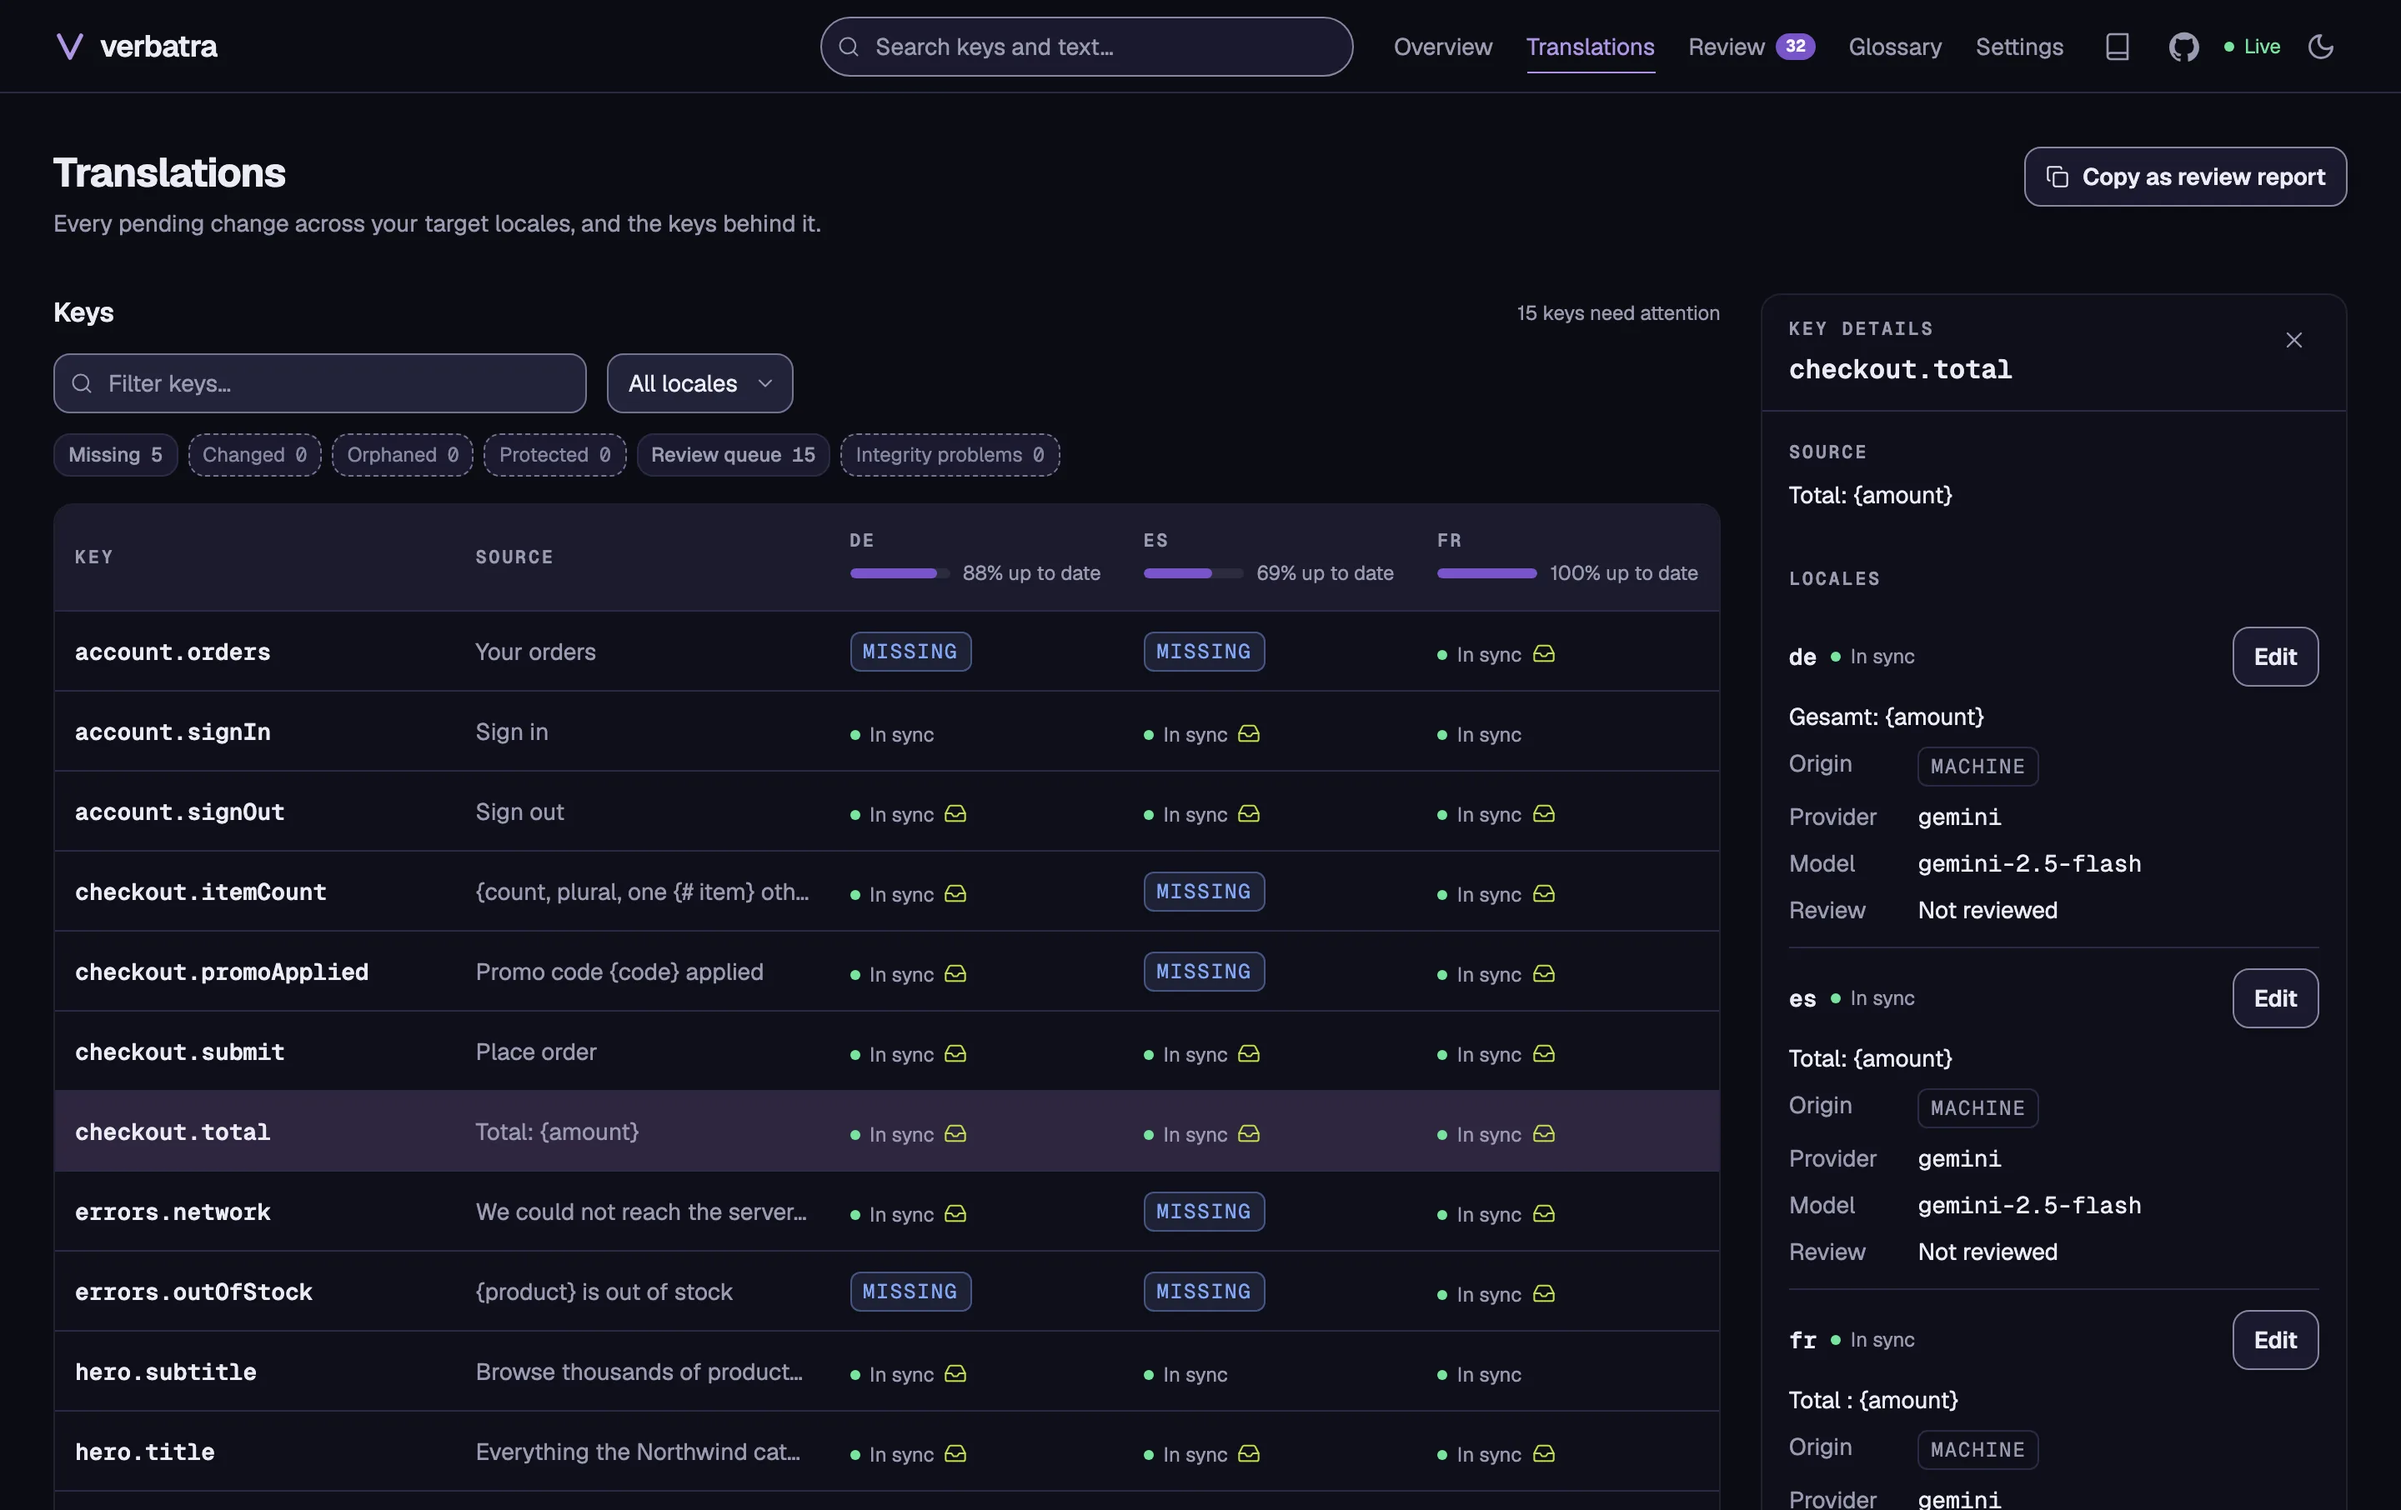
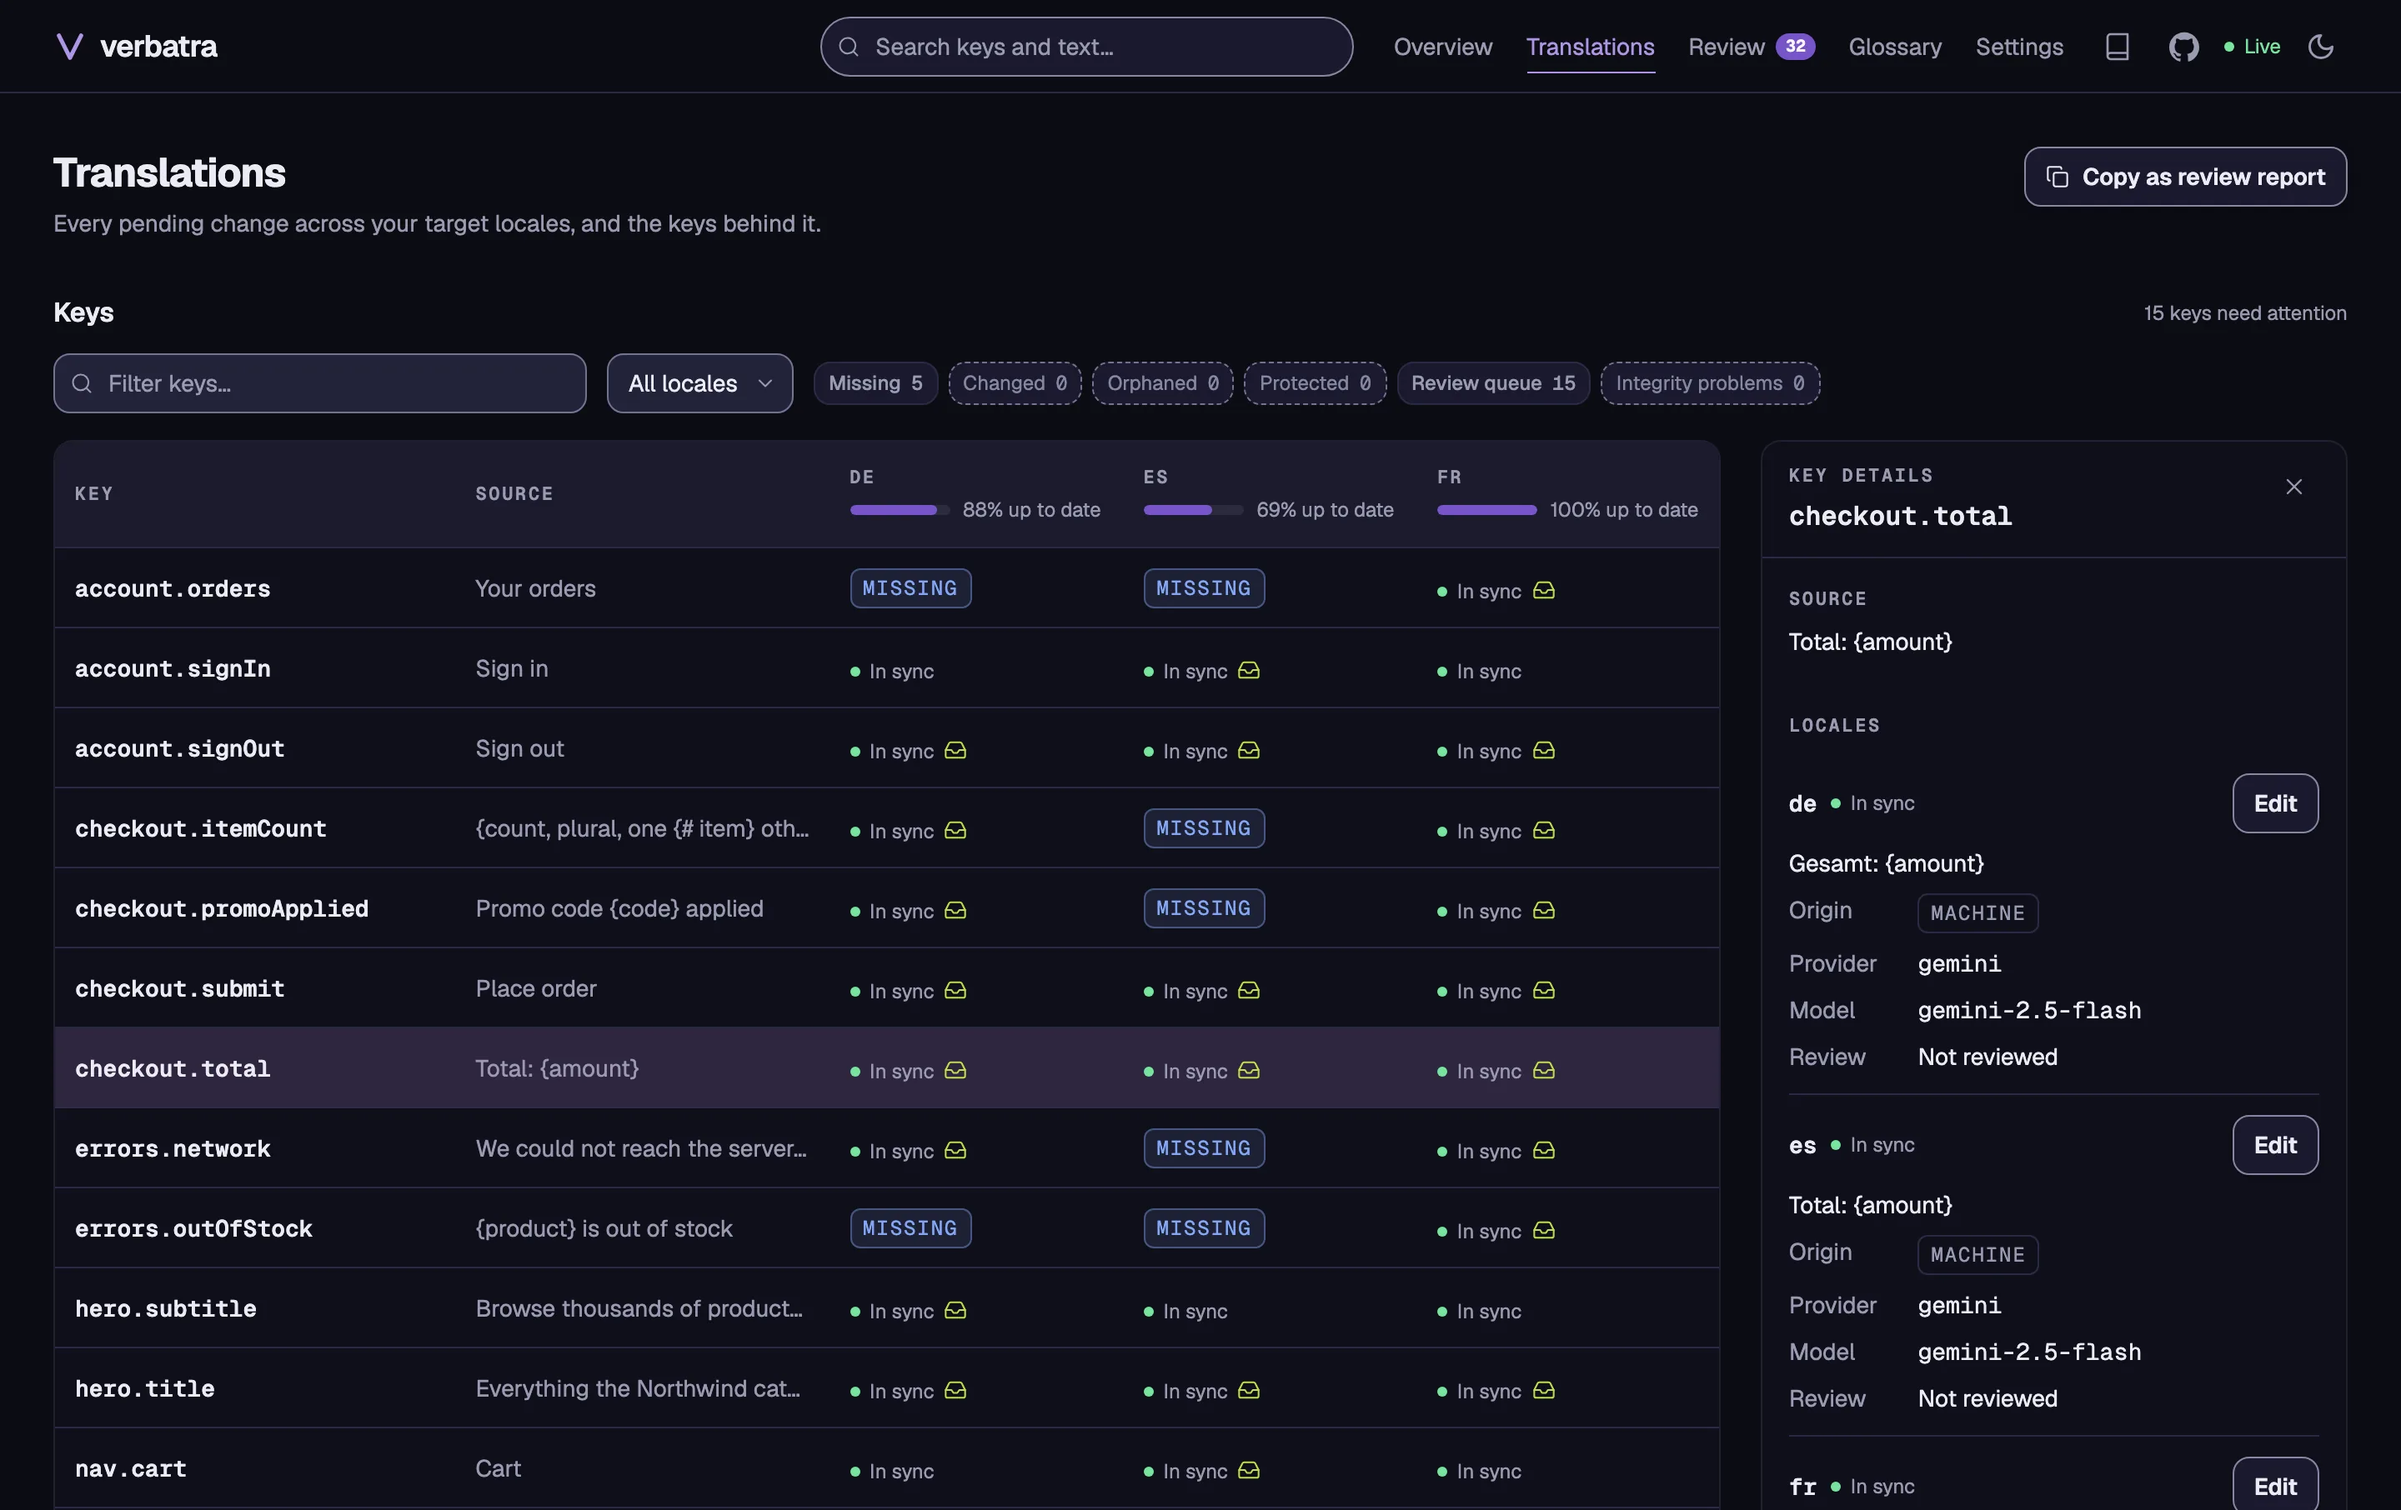
docs(studio): describe the split grid and read-only saves and refresh the screenshot

diff --git a/.claude/skills/studio-ui/SKILL.md b/.claude/skills/studio-ui/SKILL.md
@@ -290,7 +290,11 @@ below `xl` it is the `DrawerShell` (side end). While the pane is open the page u
 (the app root switches `--page-max` from `--container-6xl` to `--width-layout` through
 `has-[[data-split]]`, and both the header's inner box and the page box, marked `data-page-width`,
 read it, so their edges line up; `Container` in ui stays generic), so the matrix keeps three locale
-columns at 1440. Editor state (the open locale, its draft, the unsaved prompt) lives in
+columns at 1440. The filter bar stays above the split grid at full page width, so opening a key
+never moves the table; only the table and the pane share the grid. While the split is open the
+refresh toast moves to the start edge (`group/page` with `group-has-[[data-split]]/page`), so it
+never covers the pane's Save row. While a save runs the field is `readOnly` with `aria-busy`, never
+`disabled`, so focus stays in it, and a rejected save puts focus back in the field. Editor state (the open locale, its draft, the unsaved prompt) lives in
 `KeyEditor`, above the container, so crossing `xl` keeps a draft, and focus and the selection in the
 field are restored after the swap. The translation form is inline in the locale block, built from
 the parts in `entry-editor-parts.tsx` and the `useLocaleEdit` hook, both shared with `EditEntryDialog`
